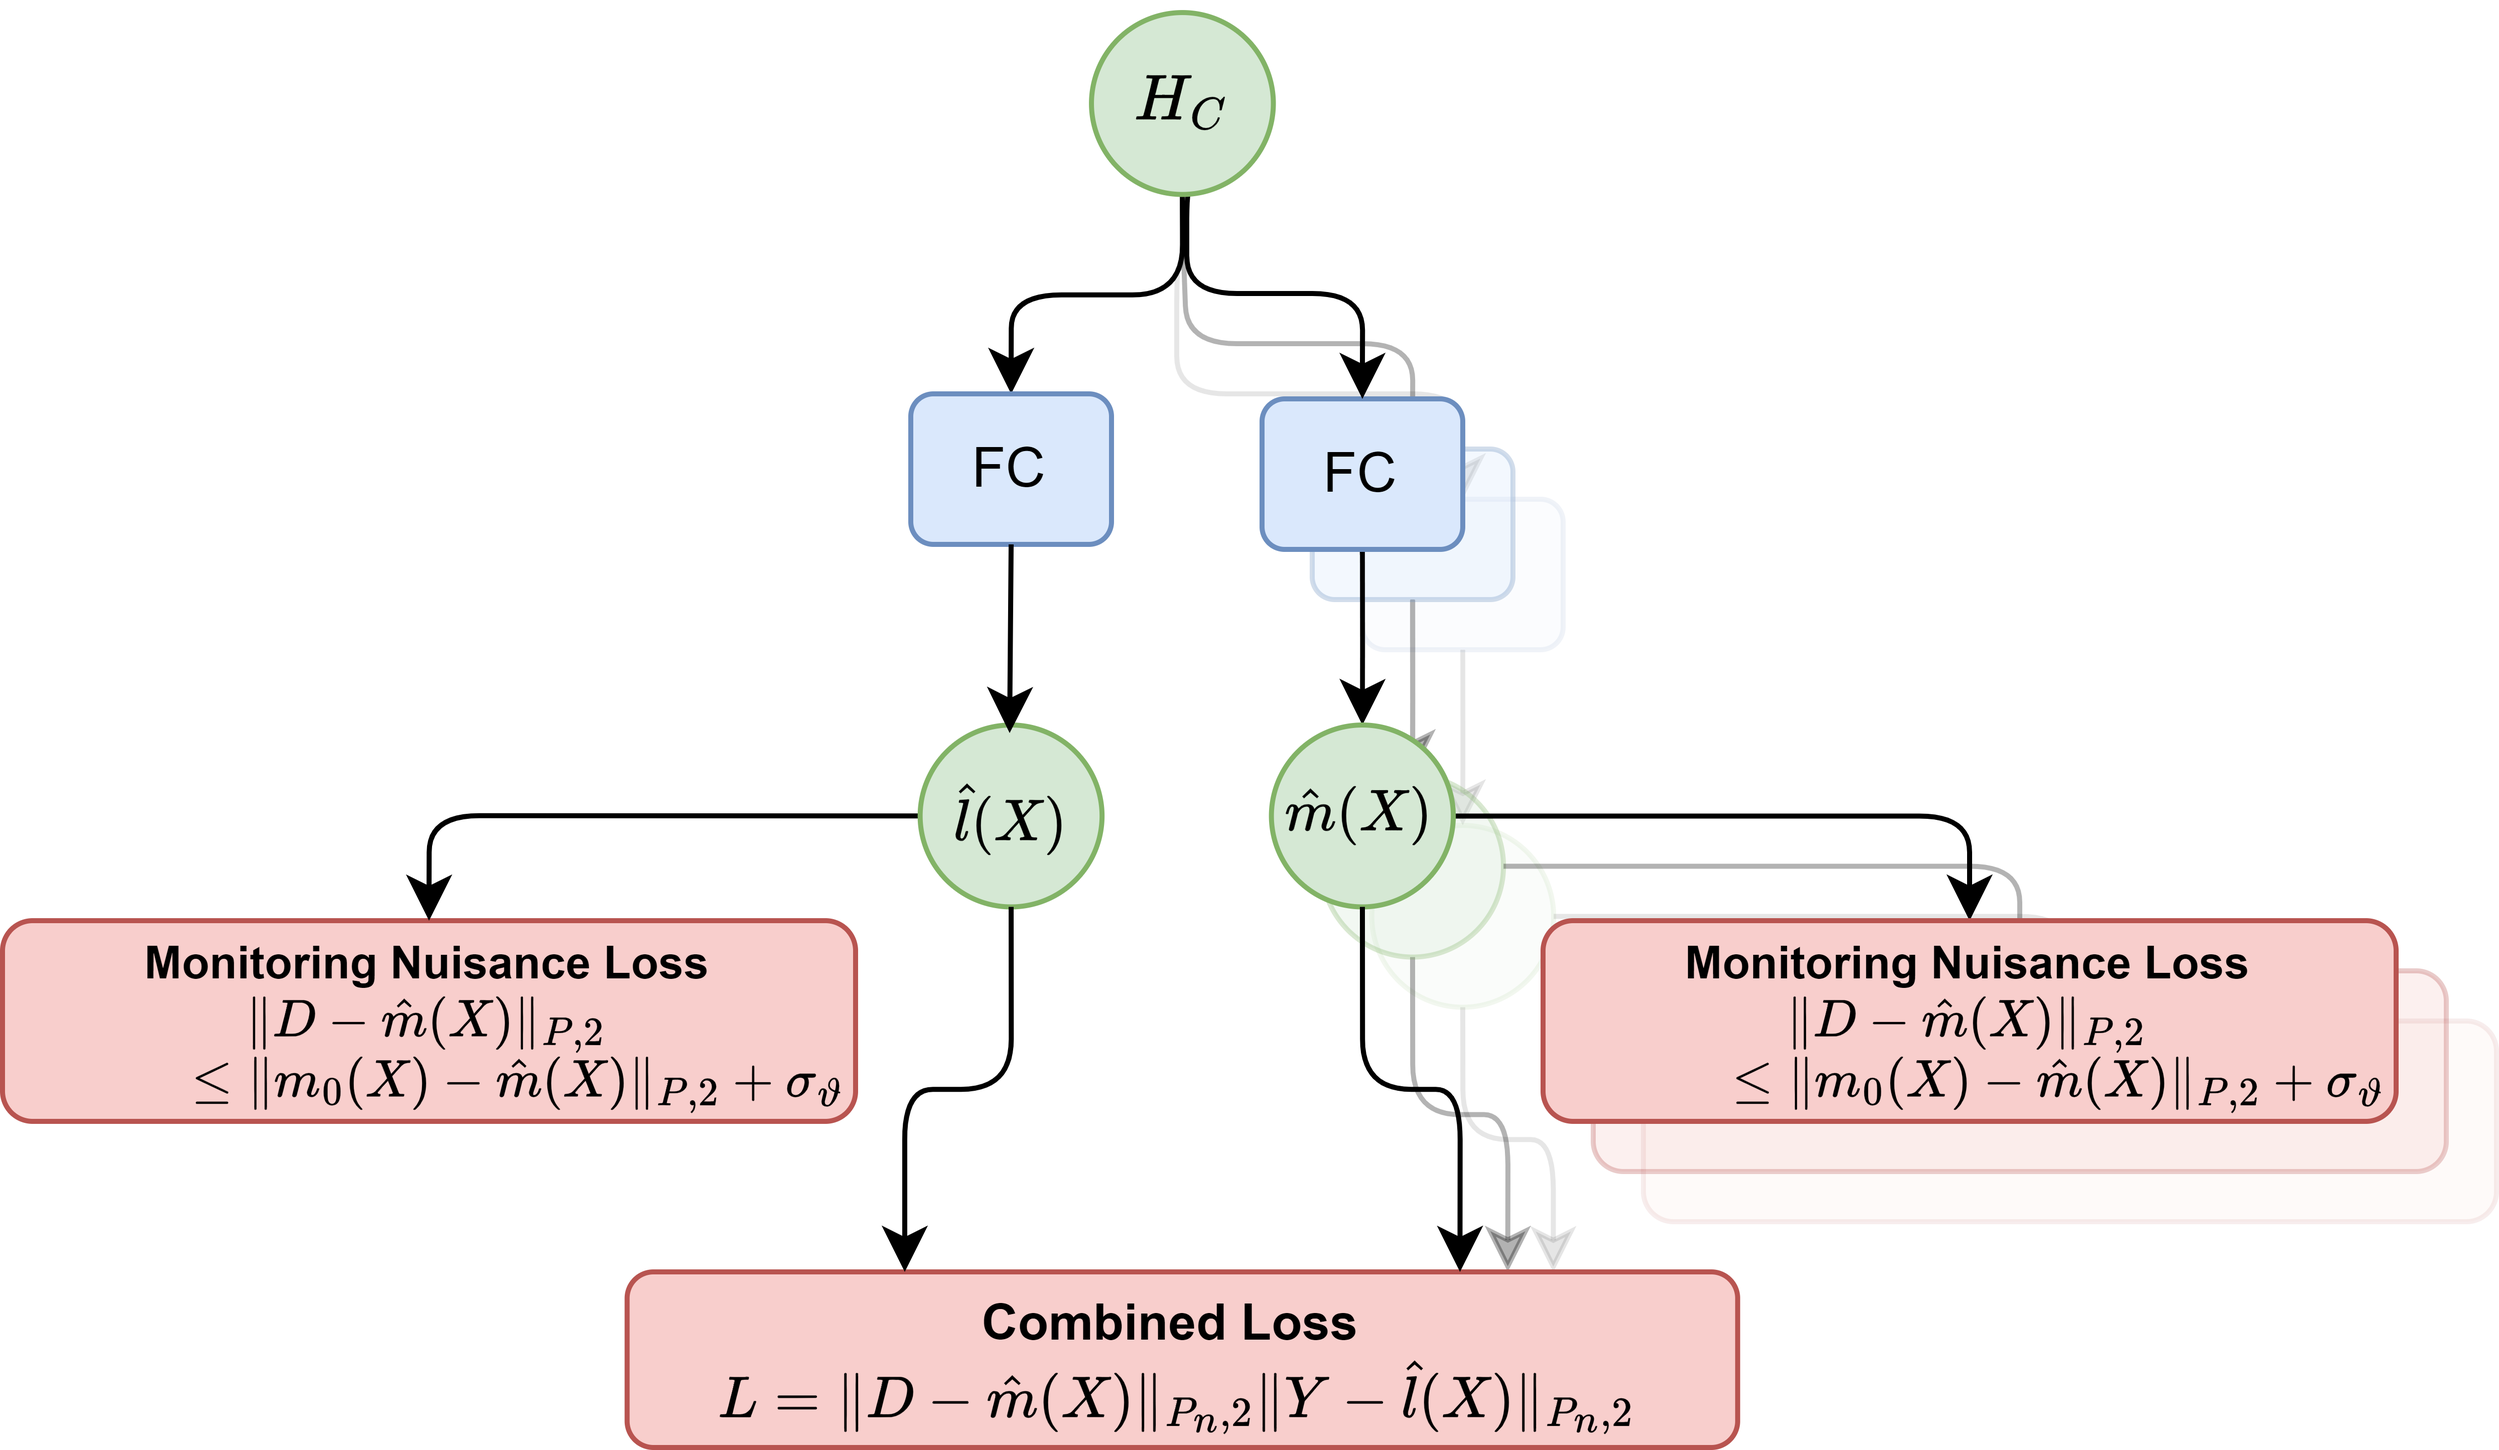
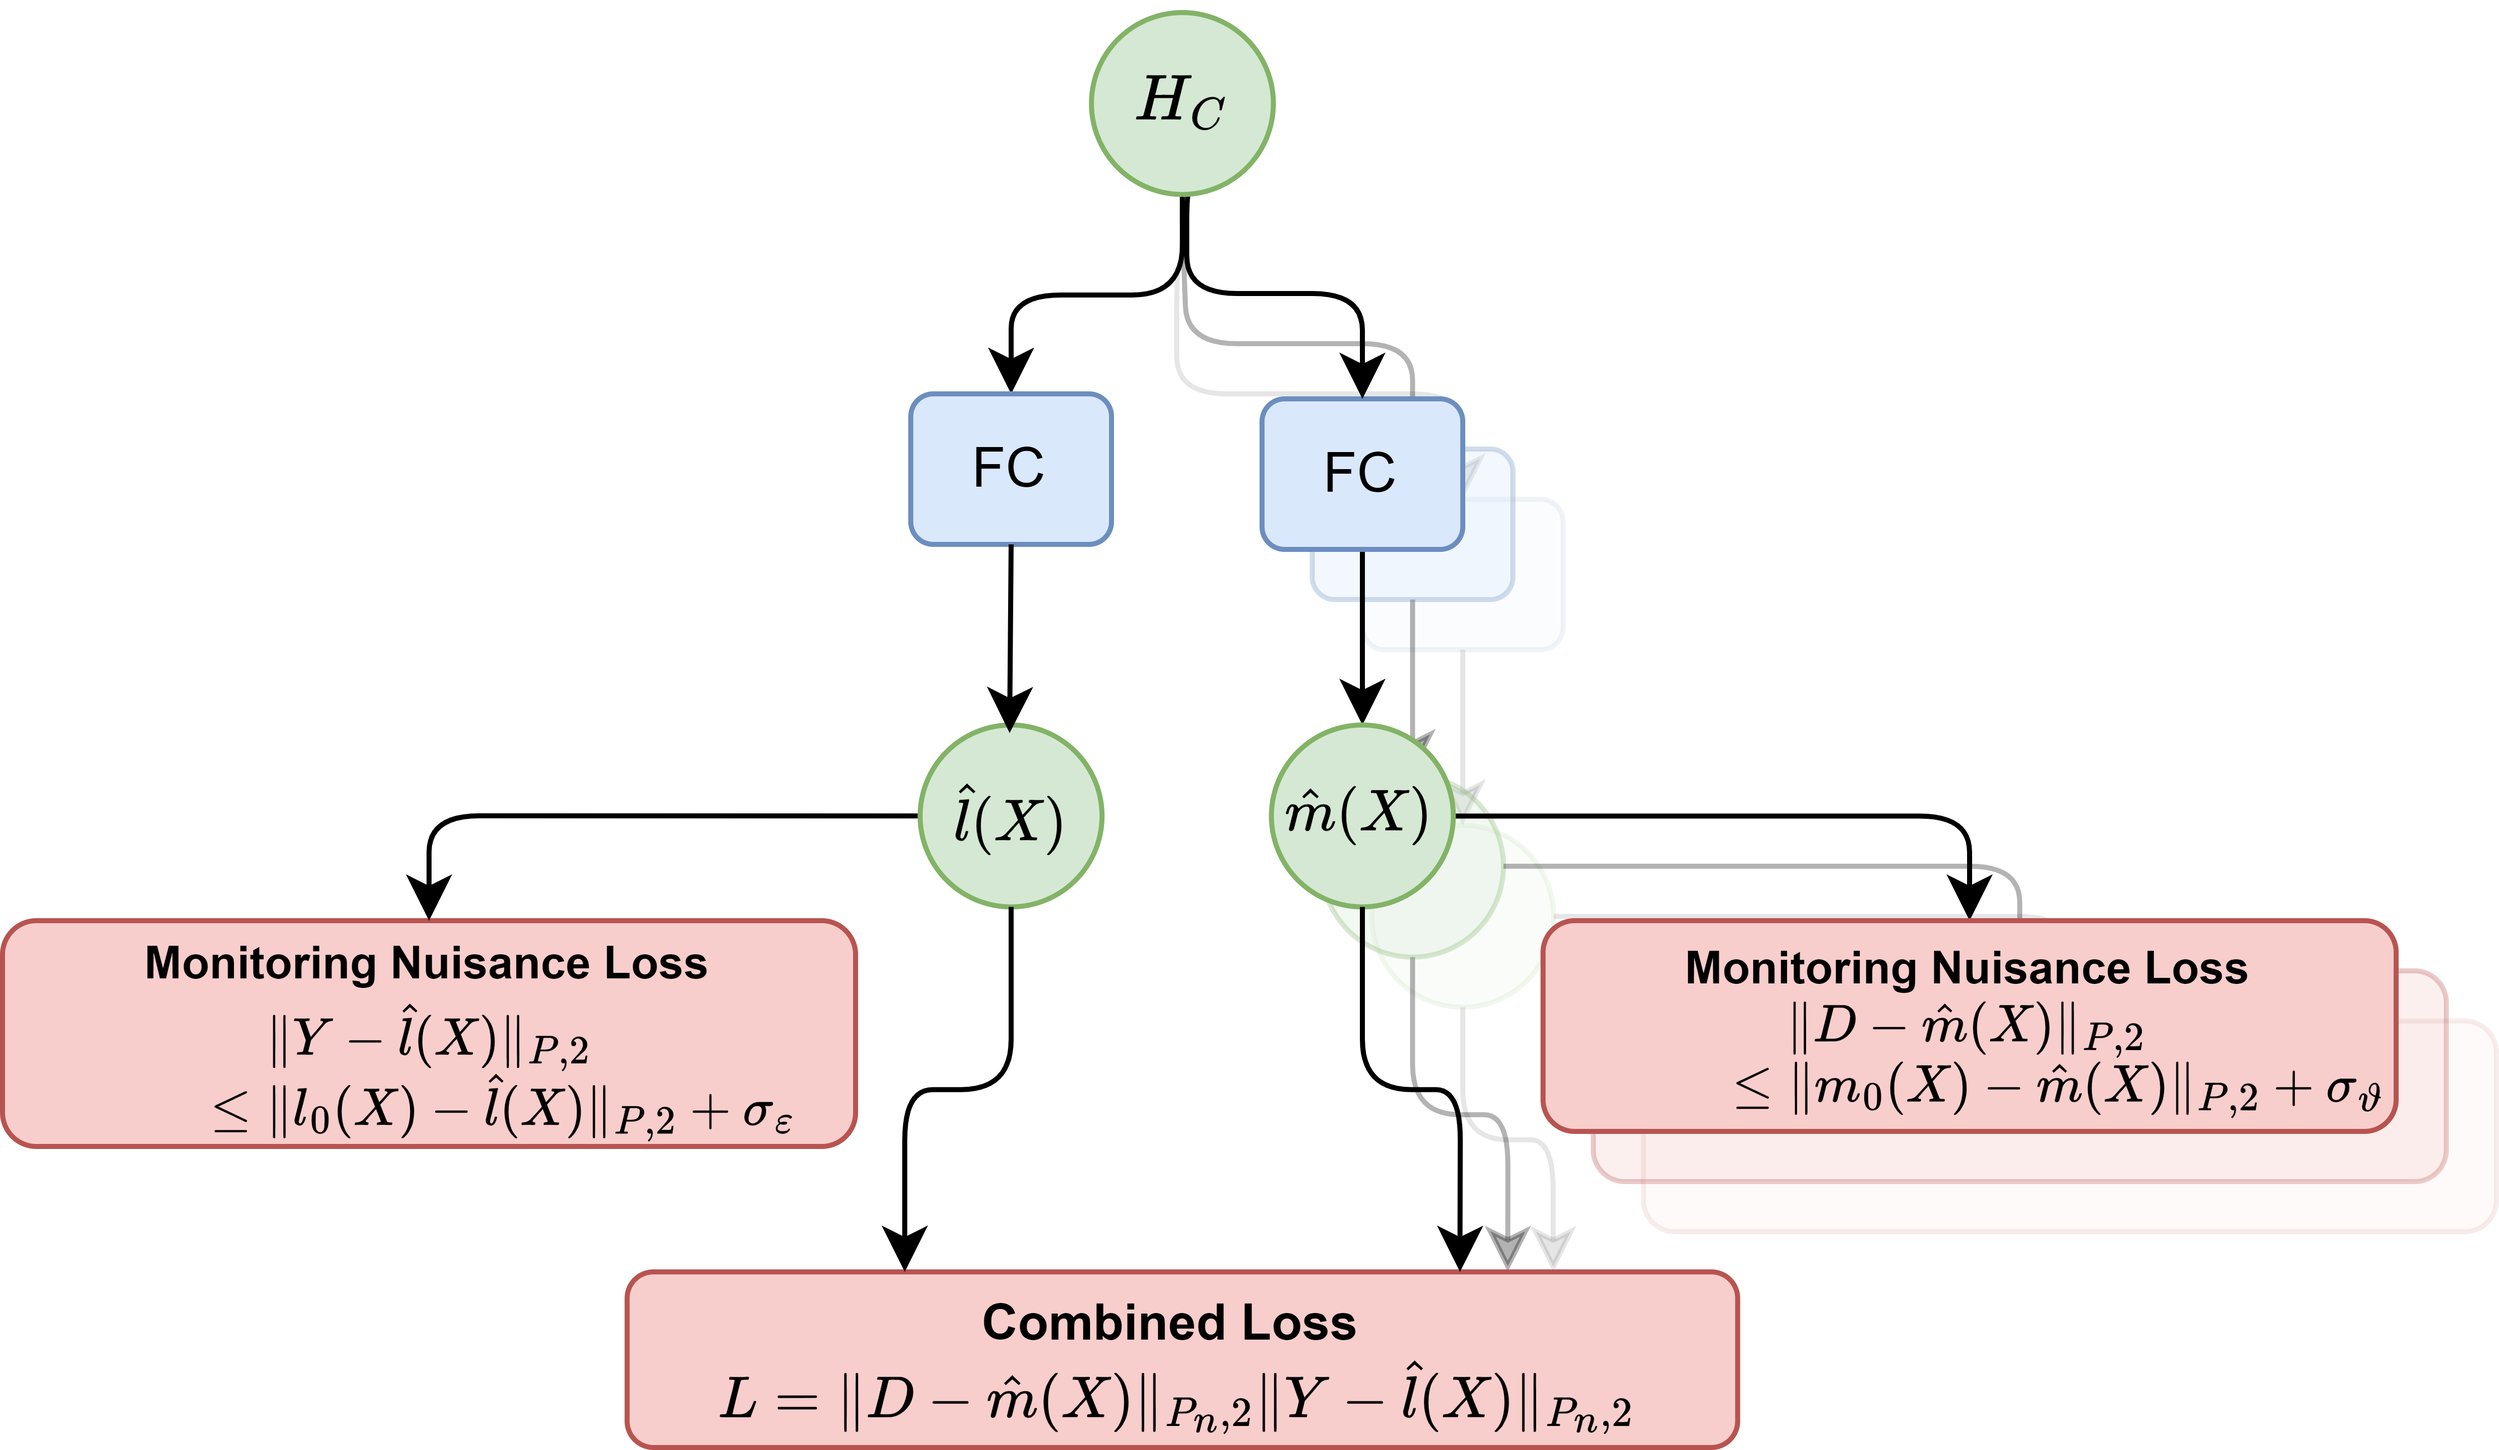
add svens feedback for esif

Changed region(s): [[0.6225, 0.654, 0.9649, 0.8408], [0.0, 0.6851, 0.3424, 0.8097]]

diff --git a/conferences/ESIF_2024/presentation.html b/conferences/ESIF_2024/presentation.html
@@ -530,29 +530,17 @@ m_0(X)&amp;:=\mathbb{E}[D|X]
 </section>
 <section id="doublemldeep---module-structure-1" class="slide level2" data-transition="zoom-in">
 <h2>DoubleMLDeep - Module Structure</h2>
-<div class="columns">
-<div class="column" style="width:65%;">
-<center>
 <div class="quarto-figure quarto-figure-center">
 <figure>
 <p><a href="figures/dml_deep_arch_loss_1.png" class="lightbox" data-gallery="quarto-lightbox-gallery-6" title="Nuisance Estimation with Combined Loss in case of multiple treatments with nuisance loss monitoring."><img data-src="figures/dml_deep_arch_loss_1.png" data-id="id1" width="700" alt="Nuisance Estimation with Combined Loss in case of multiple treatments with nuisance loss monitoring."></a></p>
 <figcaption>Nuisance Estimation with Combined Loss in case of multiple treatments with nuisance loss monitoring.</figcaption>
 </figure>
 </div>
-</center>
-</div><div class="column" style="width:35%;">
-<div class="fragment r-fit-text">
+<div class="fragment" style="font-size: 75%;">
 <ul>
-<li><p>It is possible to use binary treatment variables <span class="math inline">\(D \in \{0,1\}\)</span> by adjusting the loss function: <span class="math display">\[L = L_{log}(D, \hat{m}(X))\lVert Y - \hat{l}(X)  \rVert_{P_n,2}\]</span> with <span class="math display">\[
-\begin{align}
-L_{log}(D, \hat{m}(X)) = &amp;-(D \log (\hat{m}(X))\\
-                       &amp;+(1 - D) \log (1 - \hat{m}(X)))
-\end{align}                      
-\]</span></p></li>
-<li><p><span class="math inline">\(\hat{m}(X)\)</span> can be understood as a propensity score: <span class="math inline">\(\hat{m}(X) = \Pr(D=1 | X=x)\)</span></p></li>
+<li>It is possible to use binary treatment variables <span class="math inline">\(D \in \{0,1\}\)</span> by adjusting the loss function: <span class="math display">\[L = L_{log}(D, \hat{m}(X))\lVert Y - \hat{l}(X)  \rVert_{P_n,2}\]</span></li>
 </ul>
 </div>
-</div></div>
 </section>
 <section id="doublemldeep---workflow" class="slide level2">
 <h2>DoubleMLDeep - Workflow</h2>
@@ -1877,7 +1865,7 @@ D &amp;= \tilde{m}_0(\tilde{X}) + \vartheta,
       }
     });
     </script>
-    <script>var lightboxQuarto = GLightbox({"descPosition":"bottom","selector":".lightbox","openEffect":"zoom","loop":false,"closeEffect":"zoom"});
+    <script>var lightboxQuarto = GLightbox({"closeEffect":"zoom","openEffect":"zoom","selector":".lightbox","loop":false,"descPosition":"bottom"});
     (function() {
       let previousOnload = window.onload;
       window.onload = () => {
